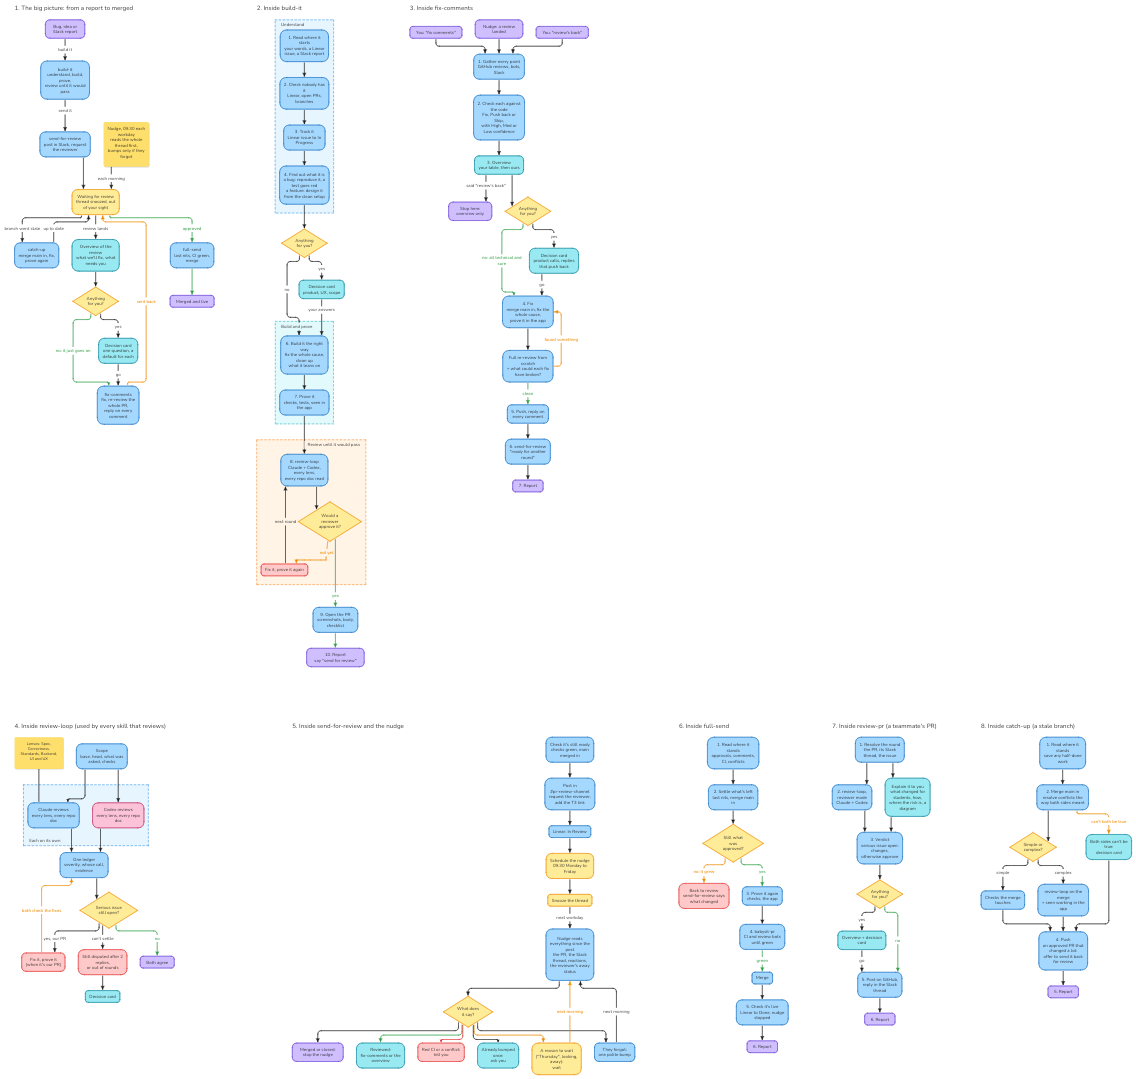
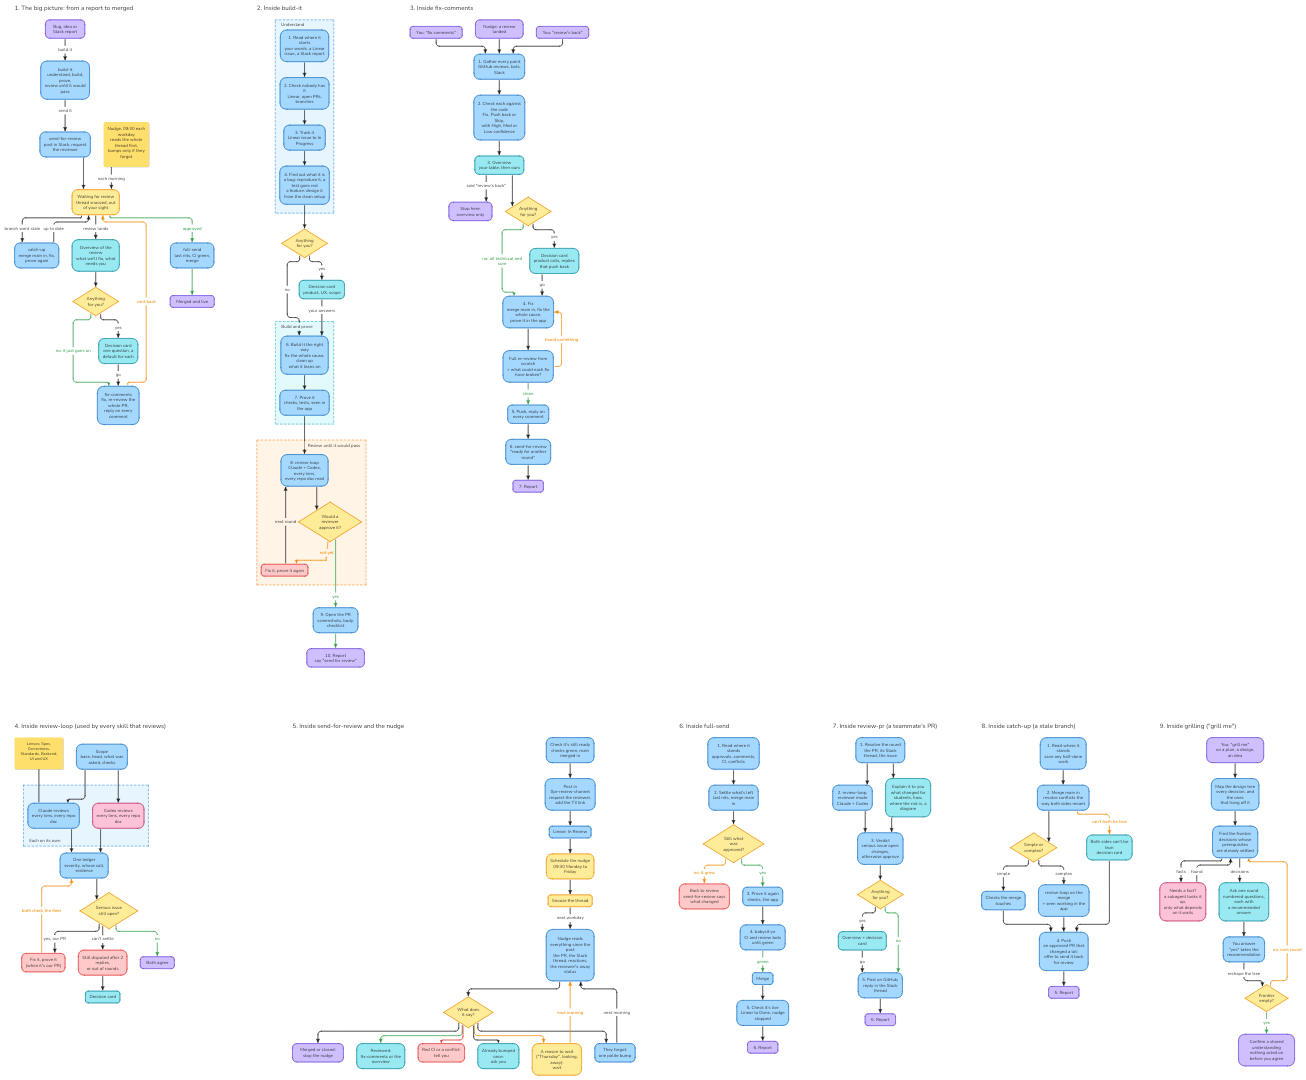
Add grilling and grill-me (Matt Pocock, MIT); their diagram; diagram sources and a script to redraw them

diff --git a/docs/diagrams/skills.py b/docs/diagrams/skills.py
@@ -1,0 +1,202 @@
+"""Each skill's diagram, as nodes and edges for Excalidraw's create_diagram. Edit here, then redraw with excalidraw.py."""
+
+def N(id, label, kind="default", group=None):
+    n = {"id": id, "label": label, "kind": kind}
+    if group: n["group"] = group
+    return n
+
+def E(a, b, label=None, kind=None):
+    e = {"from": a, "to": b}
+    if label: e["label"] = label
+    if kind: e["kind"] = kind
+    return e
+
+D = {}
+
+D["overview"] = dict(title="1. The big picture: from a report to merged", nodes=[
+    N("start", "Bug, idea or\nSlack report", "terminal"),
+    N("build", "build-it\nunderstand, build, prove,\nreview until it would pass", "service"),
+    N("send", "send-for-review\npost in Slack, request the reviewer", "service"),
+    N("wait", "Waiting for review\nthread snoozed, out of your sight", "queue"),
+    N("nudge", "Nudge, 09:30 each workday\nreads the whole thread first,\nbumps only if they forgot", "note"),
+    N("stale", "catch-up\nmerge main in, fix, prove again", "service"),
+    N("over", "Overview of the review\nwhat we'll fix, what needs you", "client"),
+    N("q", "Anything\nfor you?", "decision"),
+    N("card", "Decision card\none question, a default for each", "client"),
+    N("fix", "fix-comments\nfix, re-review the whole PR,\nreply on every comment", "service"),
+    N("full", "full-send\nlast nits, CI green, merge", "service"),
+    N("live", "Merged and live", "terminal"),
+], edges=[
+    E("start", "build", "build it"),
+    E("build", "send", "send it"),
+    E("send", "wait"),
+    E("nudge", "wait", "each morning"),
+    E("wait", "stale", "branch went stale"),
+    E("stale", "wait", "up to date"),
+    E("wait", "over", "review lands"),
+    E("over", "q"),
+    E("q", "fix", "no: it just goes on", "success"),
+    E("q", "card", "yes"),
+    E("card", "fix", "go"),
+    E("fix", "wait", "sent back", "warning"),
+    E("wait", "full", "approved", "success"),
+    E("full", "live", None, "success"),
+])
+
+D["build"] = dict(title="2. Inside build-it", nodes=[
+    N("b1", "1. Read where it starts\nyour words, a Linear issue, a Slack report", group="u"),
+    N("b2", "2. Check nobody has it\nLinear, open PRs, branches", group="u"),
+    N("b3", "3. Track it\nLinear issue to In Progress", group="u"),
+    N("b4", "4. Find out what it is\na bug: reproduce it, a test goes red\na feature: design it from the clean setup", group="u"),
+    N("b5", "Anything\nfor you?", "decision"),
+    N("card", "Decision card\nproduct, UX, scope", "client"),
+    N("b6", "6. Build it the right way\nfix the whole cause, clean up\nwhat it leans on", "service", "p"),
+    N("b7", "7. Prove it\nchecks, tests, seen in the app", "service", "p"),
+    N("b8", "8. review-loop\nClaude + Codex, every lens,\nevery repo doc read", "service", "r"),
+    N("b8q", "Would a reviewer\napprove it?", "decision", "r"),
+    N("b8f", "Fix it, prove it again", "warning", "r"),
+    N("b9", "9. Open the PR\nscreenshots, body, checklist"),
+    N("b10", "10. Report\nsay \"send for review\"", "terminal"),
+], groups=[{"id": "u", "label": "Understand"}, {"id": "p", "label": "Build and prove"},
+           {"id": "r", "label": "Review until it would pass"}],
+edges=[
+    E("b1", "b2"), E("b2", "b3"), E("b3", "b4"), E("b4", "b5"),
+    E("b5", "card", "yes"), E("card", "b6", "your answers"), E("b5", "b6", "no"),
+    E("b6", "b7"), E("b7", "b8"), E("b8", "b8q"),
+    E("b8q", "b8f", "not yet", "warning"), E("b8f", "b8", "next round"),
+    E("b8q", "b9", "yes", "success"), E("b9", "b10", None, "success"),
+])
+
+D["fix"] = dict(title="3. Inside fix-comments", nodes=[
+    N("in1", "You: \"fix comments\"", "terminal"),
+    N("in2", "Nudge: a review landed", "terminal"),
+    N("in3", "You: \"review's back\"", "terminal"),
+    N("f1", "1. Gather every point\nGitHub reviews, bots, Slack"),
+    N("f2", "2. Check each against the code\nFix, Push back or Skip,\nwith High, Med or Low confidence"),
+    N("f3", "3. Overview\nyour table, then ours", "client"),
+    N("stop", "Stop here:\noverview only", "terminal"),
+    N("q", "Anything\nfor you?", "decision"),
+    N("card", "Decision card\nproduct calls, replies that push back", "client"),
+    N("f4", "4. Fix\nmerge main in, fix the whole cause,\nprove it in the app", "service"),
+    N("f4b", "Full re-review from scratch\n+ what could each fix have broken?", "service"),
+    N("f5", "5. Push, reply on every comment"),
+    N("f6", "6. send-for-review\n\"ready for another round\"", "service"),
+    N("f7", "7. Report", "terminal"),
+], edges=[
+    E("in1", "f1"), E("in2", "f1"), E("in3", "f1"),
+    E("f1", "f2"), E("f2", "f3"),
+    E("f3", "stop", "said \"review's back\""),
+    E("f3", "q"),
+    E("q", "f4", "no: all technical and sure", "success"),
+    E("q", "card", "yes"), E("card", "f4", "go"),
+    E("f4", "f4b"), E("f4b", "f4", "found something", "warning"),
+    E("f4b", "f5", "clean", "success"), E("f5", "f6"), E("f6", "f7"),
+])
+
+D["loop"] = dict(title="4. Inside review-loop (used by every skill that reviews)", nodes=[
+    N("r1", "Scope\nbase, head, what was asked, checks"),
+    N("docs", "Both read the lenses\nSpec, Correctness, Standards,\nBackend, UI and UX,\nand every repo doc that applies", "note"),
+    N("cx", "Codex reviews", "external"),
+    N("cl", "Claude reviews\non its own, at the same time", "service"),
+    N("m", "One ledger\nseverity, whose call, evidence"),
+    N("q", "Serious issue\nstill open?", "decision"),
+    N("fix", "Fix it, prove it\n(when it's our PR)", "warning"),
+    N("stuck", "Still disputed after 2 replies,\nor out of rounds", "warning"),
+    N("card", "Decision card", "client"),
+    N("ok", "Both agree", "terminal"),
+], edges=[
+    E("r1", "cx"), E("r1", "cl"),
+    E("docs", "cx", None), E("docs", "cl", None),
+    E("cx", "m"), E("cl", "m"), E("m", "q"),
+    E("q", "fix", "yes"), E("fix", "cx", "next round", "warning"), E("fix", "cl"),
+    E("q", "ok", "no", "success"),
+    E("q", "stuck", "can't settle"), E("stuck", "card"),
+])
+
+D["send"] = dict(title="5. Inside send-for-review and the nudge", nodes=[
+    N("s1", "Check it's still ready\nchecks green, main merged in"),
+    N("s2", "Post in #pr-review-channel\nrequest the reviewer, add the T3 link", "service"),
+    N("s3", "Linear: In Review"),
+    N("s4", "Schedule the nudge\n09:30 Monday to Friday", "queue"),
+    N("s5", "Snooze the thread", "queue"),
+    N("n1", "Nudge reads everything since the post\nthe PR, the Slack thread, reactions,\nthe reviewer's away status", "service"),
+    N("q", "What does\nit say?", "decision"),
+    N("o1", "Merged or closed:\nstop the nudge", "terminal"),
+    N("o2", "Reviewed:\nfix-comments or the overview", "client"),
+    N("o3", "Red CI or a conflict:\ntell you", "warning"),
+    N("o4", "A reason to wait\n(\"Thursday\", looking, away):\nwait", "queue"),
+    N("o5", "Already bumped once:\nask you", "client"),
+    N("o6", "They forgot:\none polite bump", "service"),
+], edges=[
+    E("s1", "s2"), E("s2", "s3"), E("s3", "s4"), E("s4", "s5"), E("s5", "n1", "next workday"),
+    E("n1", "q"),
+    E("q", "o1"), E("q", "o2", None, "success"), E("q", "o3", None, "failure"),
+    E("q", "o4", None, "warning"), E("q", "o5"), E("q", "o6"),
+    E("o4", "n1", "next morning", "warning"), E("o6", "n1", "next morning"),
+])
+
+D["full"] = dict(title="6. Inside full-send", nodes=[
+    N("a1", "1. Read where it stands\napprovals, comments, CI, conflicts"),
+    N("a2", "2. Settle what's left\nlast nits, merge main in"),
+    N("q", "Still what was\napproved?", "decision"),
+    N("back", "Back to review\nsend-for-review says what changed", "warning"),
+    N("a3", "3. Prove it again\nchecks, the app"),
+    N("a4", "4. babysit-pr\nCI and review bots until green", "service"),
+    N("a5", "Merge", "service"),
+    N("a6", "5. Check it's live\nLinear to Done, nudge stopped"),
+    N("a7", "6. Report", "terminal"),
+], edges=[
+    E("a1", "a2"), E("a2", "q"), E("q", "back", "no: it grew", "warning"),
+    E("q", "a3", "yes", "success"), E("a3", "a4"), E("a4", "a5", "green", "success"),
+    E("a5", "a6"), E("a6", "a7"),
+])
+
+D["review"] = dict(title="7. Inside review-pr (a teammate's PR)", nodes=[
+    N("p1", "1. Resolve the round\nthe PR, its Slack thread, the issue"),
+    N("p2", "2. review-loop, reviewer mode\nClaude + Codex", "service"),
+    N("p2b", "Explain it to you\nwhat changed for students, how,\nwhere the risk is, a diagram", "client"),
+    N("p3", "3. Verdict\nserious issue open: changes,\notherwise approve"),
+    N("q", "Anything\nfor you?", "decision"),
+    N("card", "Overview + decision card", "client"),
+    N("p5", "5. Post on GitHub,\nreply in the Slack thread", "service"),
+    N("p6", "6. Report", "terminal"),
+], edges=[
+    E("p1", "p2"), E("p1", "p2b"), E("p2", "p3"), E("p2b", "p3"), E("p3", "q"),
+    E("q", "card", "yes"), E("card", "p5", "go"), E("q", "p5", "no", "success"),
+    E("p5", "p6"),
+])
+
+D["catch"] = dict(title="8. Inside catch-up (a stale branch)", nodes=[
+    N("c1", "1. Read where it stands\nsave any half-done work"),
+    N("c2", "2. Merge main in\nresolve conflicts the way both sides meant"),
+    N("q", "Simple or\ncomplex?", "decision"),
+    N("cs", "Checks the merge touches", "service"),
+    N("cc", "review-loop on the merge\n+ seen working in the app", "service"),
+    N("card", "Both sides can't be true:\ndecision card", "client"),
+    N("c4", "4. Push\nan approved PR that changed a lot:\noffer to send it back for review"),
+    N("c5", "5. Report", "terminal"),
+], edges=[
+    E("c1", "c2"), E("c2", "q"), E("q", "cs", "simple"), E("q", "cc", "complex"),
+    E("c2", "card", "can't both be true", "warning"),
+    E("cs", "c4"), E("cc", "c4"), E("card", "c4"), E("c4", "c5"),
+])
+
+D["grill"] = dict(title="9. Inside grilling (\"grill me\")", nodes=[
+    N("g0", "You: \"grill me\"\non a plan, a design, an idea", "terminal"),
+    N("g1", "Map the design tree\nevery decision, and the ones\nthat hang off it"),
+    N("g2", "Find the frontier\ndecisions whose prerequisites\nare already settled"),
+    N("gf", "Needs a fact?\na subagent looks it up,\nonly what depends on it waits", "external"),
+    N("g3", "Ask one round\nnumbered questions, each with\na recommended answer", "client"),
+    N("g4", "You answer\n\"yes\" takes the recommendation"),
+    N("q", "Frontier\nempty?", "decision"),
+    N("g5", "Confirm a shared understanding\nnothing acted on before you agree", "terminal"),
+], edges=[
+    E("g0", "g1"), E("g1", "g2"), E("g2", "gf", "facts"), E("gf", "g2", "found"),
+    E("g2", "g3", "decisions"), E("g3", "g4"), E("g4", "q", "reshape the tree"),
+    E("q", "g2", "no: next round", "warning"), E("q", "g5", "yes", "success"),
+])
+
+# Where each one sits in the scene (x, y), so a redraw lands in the same place.
+AT = {"overview": (0, 0), "build": (1100, 0), "fix": (1796, 0),
+      "loop": (0, 3259), "send": (1262, 3259), "full": (3018, 3259),
+      "review": (3715, 3259), "catch": (4391, 3259), "grill": (5200, 3259)}

diff --git a/docs/diagrams/excalidraw.py b/docs/diagrams/excalidraw.py
@@ -1,0 +1,76 @@
+"""Draw and check the skill diagrams in the shared Excalidraw scene, over Excalidraw's MCP.
+
+  python3 excalidraw.py draw <name> [x y]      add a diagram from skills.py, at its place in AT unless given
+  python3 excalidraw.py shot <out.png> [x y w h]  screenshot the scene, or the shapes inside a box
+  python3 excalidraw.py fonts                  list the text fonts in the scene (all should be 6, Nunito)
+
+The key comes from EXCALIDRAW_API_KEY. To redraw a diagram, delete it in Excalidraw first (or pass
+replaceDiagramId by hand), then draw it at the same x, y.
+"""
+import base64, json, os, sys, tempfile, urllib.request
+
+SCENE = "6CBVjVY4H8K"  # https://app.excalidraw.com/s/9GDlHwpjNWo/6CBVjVY4H8K
+URL = "https://api.excalidraw.com/api/v1/mcp"
+KEY = os.environ.get("EXCALIDRAW_API_KEY") or sys.exit("Set EXCALIDRAW_API_KEY first.")
+SESSION = os.path.join(tempfile.gettempdir(), "excalidraw-mcp-session")
+
+
+def post(body, sid=None):
+    h = {"Authorization": "Bearer " + KEY, "Content-Type": "application/json",
+         "Accept": "application/json, text/event-stream"}
+    if sid:
+        h["Mcp-Session-Id"] = sid
+    r = urllib.request.urlopen(urllib.request.Request(URL, json.dumps(body).encode(), h), timeout=60)
+    raw = r.read().decode()
+    if "data:" in raw[:50]:
+        raw = [l[5:].strip() for l in raw.splitlines() if l.startswith("data:")][-1]
+    return (json.loads(raw) if raw.strip() else None), r.headers.get("Mcp-Session-Id")
+
+
+def session():
+    if os.path.exists(SESSION):
+        return open(SESSION).read().strip() or None
+    _, sid = post({"jsonrpc": "2.0", "id": 1, "method": "initialize", "params": {
+        "protocolVersion": "2025-06-18", "capabilities": {}, "clientInfo": {"name": "agent-skills", "version": "1"}}})
+    post({"jsonrpc": "2.0", "method": "notifications/initialized"}, sid)
+    open(SESSION, "w").write(sid or "")
+    return sid
+
+
+def tool(name, args):
+    res, _ = post({"jsonrpc": "2.0", "id": 2, "method": "tools/call",
+                   "params": {"name": name, "arguments": args}}, session())
+    return res["result"]
+
+
+def elements():
+    d = json.loads(tool("get_scene_content", {"sceneId": SCENE})["content"][0]["text"])
+    return [e for e in (d.get("elements") or d) if not e.get("isDeleted")]
+
+
+cmd = sys.argv[1] if len(sys.argv) > 1 else ""
+if cmd == "draw":
+    sys.path.insert(0, os.path.dirname(os.path.abspath(__file__)))
+    from skills import AT, D
+    d = D[sys.argv[2]]
+    x, y = map(float, sys.argv[3:5]) if len(sys.argv) == 5 else AT[sys.argv[2]]
+    args = {"sceneId": SCENE, "title": d["title"], "direction": "DOWN", "style": "clean",
+            "nodes": d["nodes"], "edges": d["edges"], "x": x, "y": y}
+    if "groups" in d:
+        args["groups"] = d["groups"]
+    print(json.dumps(tool("create_diagram", args).get("structuredContent"))[:400])
+elif cmd == "shot":
+    args = {"sceneId": SCENE, "maxWidth": 1400}
+    if len(sys.argv) == 7:
+        x, y, w, h = map(float, sys.argv[3:7])
+        args["elementIds"] = [e["id"] for e in elements() if e["type"] != "arrow"
+                              and x <= e["x"] <= x + w and y <= e["y"] <= y + h]
+    for c in tool("take_screenshot", args)["content"]:
+        if c["type"] == "image":
+            open(sys.argv[2], "wb").write(base64.b64decode(c["data"]))
+            print("saved", sys.argv[2])
+elif cmd == "fonts":
+    texts = [e for e in elements() if e["type"] == "text"]
+    print(len(texts), "texts, fonts:", sorted({e.get("fontFamily") for e in texts}))
+else:
+    print(__doc__)

diff --git a/README.md b/README.md
@@ -21,6 +21,7 @@ They're written for our repo (Alicia), our Slack and our Linear, and they're pub
 | "babysit" | [`babysit-pr`](skills/babysit-pr/SKILL.md) | Watches a PR through CI and review bots, fixing what's real, until it's green. |
 | (automatic) | [`linear-track`](skills/linear-track/SKILL.md) | Keeps the thread's Linear issue in step with the work. |
 | "sync Linear" | [`linear-sweep`](skills/linear-sweep/SKILL.md) | Audits your Linear board against GitHub and fixes what drifted. |
+| "grill me" | [`grill-me`](skills/grill-me/SKILL.md), [`grilling`](skills/grilling/SKILL.md) | Interviews you about a plan or design in rounds, each question with a recommended answer, until nothing is left assumed. |
 
 ## How they fit together
 
@@ -40,13 +41,26 @@ flowchart LR
 
 ### See inside each skill
 
-[Open the diagrams in Excalidraw](https://link.excalidraw.com/l/9GDlHwpjNWo/6CBVjVY4H8K) to zoom in. There are eight: the big picture, then one for each of `build-it`, `fix-comments`, `review-loop`, `send-for-review` with the nudge, `full-send`, `review-pr` and `catch-up`.
+[Open the diagrams in Excalidraw](https://link.excalidraw.com/l/9GDlHwpjNWo/6CBVjVY4H8K) to zoom in. There are nine: the big picture, then one for each of `build-it`, `fix-comments`, `review-loop`, `send-for-review` with the nudge, `full-send`, `review-pr`, `catch-up` and `grilling`.
 
-<img src="docs/all-skills.png" alt="All eight diagrams side by side" width="800">
+<img src="docs/all-skills.png" alt="All nine diagrams side by side" width="800">
 
 The big picture:
 
 <img src="docs/big-picture.png" alt="From a report to merged: build-it, send-for-review, the nudge, the overview, fix-comments, full-send" width="540">
+
+#### Keeping them up to date
+
+When a skill changes how it works, change its diagram in the same commit. Each diagram's boxes and arrows are in [`docs/diagrams/skills.py`](docs/diagrams/skills.py), and [`excalidraw.py`](docs/diagrams/excalidraw.py) draws them in the shared scene ([edit it here](https://app.excalidraw.com/s/9GDlHwpjNWo/6CBVjVY4H8K), if you're in our Excalidraw workspace). Delete the old diagram in the scene, then:
+
+```sh
+export EXCALIDRAW_API_KEY=...   # an Excalidraw+ API key
+python3 docs/diagrams/excalidraw.py draw grill    # redraws it in its place
+python3 docs/diagrams/excalidraw.py fonts         # every text should be font 6 (Nunito)
+python3 docs/diagrams/excalidraw.py shot docs/all-skills.png
+```
+
+With the Excalidraw MCP connected, an agent can do the same: ask it to redraw a skill's diagram from `skills.py`. Outside our workspace, draw them in a scene of your own and change `SCENE` in `excalidraw.py`.
 
 ## The ideas behind them
 
@@ -88,5 +102,7 @@ What's specific to us, and where to change it:
 - **Models**: `review-loop` and `council` name the Claude and Codex models we use.
 
 ## Credits
+
+[`grilling`](skills/grilling/SKILL.md) and [`grill-me`](skills/grill-me/SKILL.md) are by Matt Pocock, from [mattpocock/skills](https://github.com/mattpocock/skills), MIT ([license](skills/grilling/LICENSE)). Our `grilling` leaves "with a fresh context window" out of its subagent line.
 
 [`pr-wait`](skills/babysit-pr/scripts/pr-wait) is by Theo Browne, MIT ([license](skills/babysit-pr/scripts/LICENSE-pr-wait)).

diff --git a/skills/grilling/SKILL.md b/skills/grilling/SKILL.md
@@ -1,0 +1,30 @@
+---
+name: grilling
+description: Grill the user relentlessly about a plan, decision, or idea. Use when the user wants to stress-test their thinking, or uses any 'grill' trigger phrases.
+---
+
+Interview the user relentlessly until you reach a shared understanding. Map this as a **design tree**: every decision branches into the decisions that hang off it.
+
+Work the tree in **rounds**. The **frontier** is every decision whose prerequisites are already settled: the questions you can ask _now_ without guessing at answers you haven't heard yet. Ask the whole frontier in one round: number each question and give your recommended answer. Then wait for the user's answers before the next round.
+
+Format a round like so:
+
+```
+❓ **Q1** - **<question title>**: <question body, might be multiple paragraphs, including multiple choices>
+
+➡ <your recommended answer>
+
+---
+
+❓ **Q2** - **<question title>**: <question body, might be multiple paragraphs, including multiple choices>
+
+➡ <your recommended answer>
+```
+
+Word each question so "yes" accepts your recommended answer.
+
+Each round the user answers reshapes the tree: settled decisions push the frontier outward and unblock questions that depended on them. Recompute the frontier and ask the next round. A question whose answer depends on another question still open in this round belongs to a _later_ round, not this one.
+
+Finding _facts_ is your job, never the user's. When a frontier question needs a fact from the environment (filesystem, tools, etc.), dispatch a sub-agent to find it; don't ask the user for anything you could look up yourself. Don't block on it: a running exploration is an unsettled prerequisite, so only the questions downstream of it wait for the sub-agent to report; ask the rest of the frontier now. The _decisions_ are the user's: put each to them and wait.
+
+The session is done when the frontier is empty: every branch of the design tree visited, nothing left silently assumed. Do not act on it until the user confirms you have reached a shared understanding.

diff --git a/skills/grill-me/SKILL.md b/skills/grill-me/SKILL.md
@@ -1,0 +1,7 @@
+---
+name: grill-me
+description: A relentless interview to sharpen a plan or design.
+disable-model-invocation: true
+---
+
+Call the Skill tool with "grilling".
